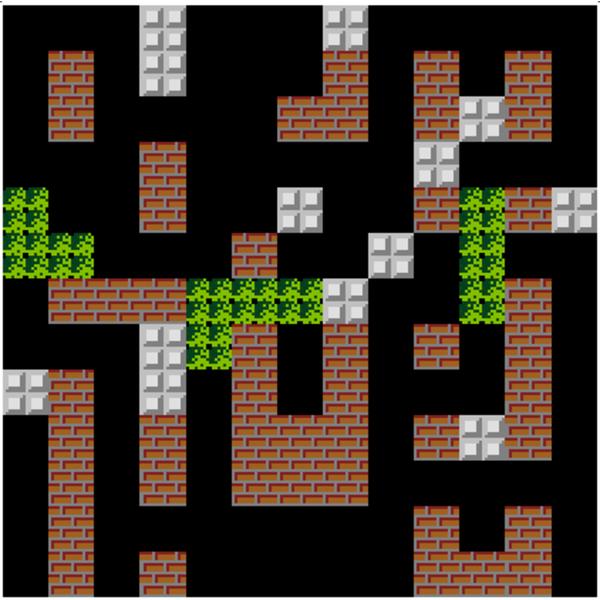
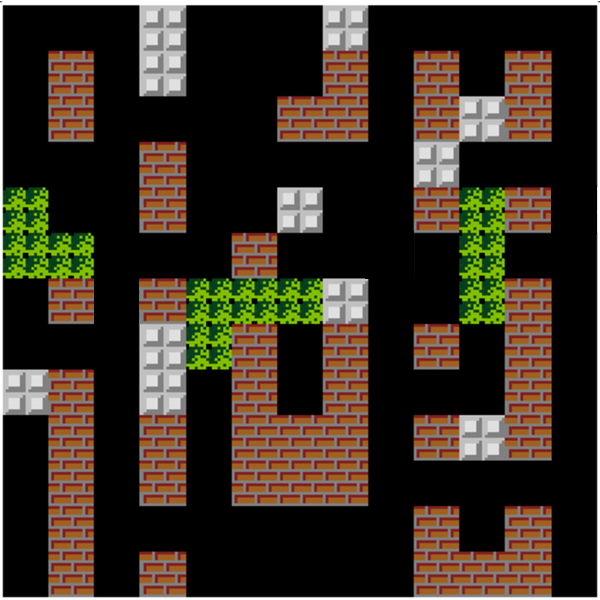
walls pb solved

Changed region(s): [[0.9, 0.3, 1.0, 0.39], [0.6, 0.36, 0.69, 0.48], [0.15, 0.45, 0.24, 0.54]]

diff --git a/tankytank.py b/tankytank.py
@@ -27,29 +27,28 @@ dim_cube = 46
 
 # soit l'origine en haut à gauche de l'image --> rajouter le margin de l'image après
 walls = [[48,50,2],[139,5,2],[277,96,1],[322,5,3],[413,50,4],[459,95,1],[504,50,2],[139,141,2],[3,187,2],
-         [48,232,2],[277,187,1],[231,232,6],[367,232,1],[460,187,3],[505,187,1],[550,187,1],[94,278,1],
+         [48,232,2],[277,187,1],[231,232,6],[460,187,3],[505,187,1],
          [139,278,5],[184,278,2],[413,323,1],[504,278,4],[3,368,1],[48,368,5],[413,413,1],[458,413,1],
          [139,551,1],[413,506,2],[504,506,2],[458,551,1]]
 big_wall = [277,2,278,5]
 
-for wall in walls:
-    print(wall[0], (wall[0] + dim_cube + 2))
-    print(wall[1], (wall[1]) + (wall[2] * dim_cube + 2))
-    
-    somewall = pygame.draw.rect(background, BLUE, (wall[0], wall[1], dim_cube+1, (dim_cube * wall[2])))
-    print(wall[0],wall[0]+dim_cube+1,wall[1],wall[1]+(dim_cube * wall[2]))
+
+# let's see those walls
+# for wall in walls:    
+#     somewall = pygame.draw.rect(background, BLUE, (wall[0], wall[1], dim_cube+1, (dim_cube * wall[2])))
+#     bigwall = pygame.draw.rect(background, RED, (big_wall[0], big_wall[2], (dim_cube * big_wall[1]), (dim_cube * big_wall[3])))
 
 win.fill(BLACK)
 pygame.display.flip()
 
 vel = 1
 run = True
-dim_tank = 40 
+dim_tank = 30
 
 # Player 1
 j1_img = pygame.image.load('j1_tank.png').convert_alpha()
-j1_x = 95
-j1_y = 130
+j1_x = 291
+j1_y = 568
 dir = "right"
 
 # Player 2
@@ -108,8 +107,6 @@ def player(x, y, dir):
             win.blit(pygame.transform.rotate(j1_img, 90), (j1_x, j1_y))
         elif dir =="right":
             win.blit(pygame.transform.rotate(j1_img, 0), (j1_x, j1_y))
-        else:
-            win.blit(j1_img, (x-1,y-1))
 
 def show_score(x, y, score_value):
     score = font.render("Score : " + str(score_value), True, (255, 255, 255))
@@ -135,29 +132,25 @@ def isCollision(enemyX, enemyY, bullet_j1_x, bullet_j1_y):
         return False
 
 def isWall(x, y):
-    # 2 pixels d'incertitude
-    # enlève dimension du tank
-    # for wall in walls:
-    #     res = False
+    for wall in walls:
+        res = False
+        if (wall[0] <= x <= (wall[0] + dim_cube)) and (wall[1] <= y <= (wall[1] + (wall[2] * dim_cube ))):
+            res = True
+            print("wall here")
+            print(wall[0], wall[1])
+            break 
+        elif (big_wall[0]<= x <= (big_wall[0] + (big_wall[1] * dim_cube))) and (big_wall[2]<= y <= (big_wall[2] + (big_wall[3] * dim_cube))):
+            res = True
+            break
+        else:
+            continue
+    return res
 
-    #     if ( wall[0] <= x <= (wall[0]) + dim_cube + 1) and (wall[1] <= y <= (wall[1] + (wall[2] * dim_cube ))):
-    #         res = True
-    #         print(wall[0], wall[0]+dim_cube+1, x, wall[1], y , wall[1]+(dim_cube * wall[2]))
-    #         break 
-    #     elif ((big_wall[0]) - 2)<= x <= ((big_wall[0]) + ((big_wall[1]) * dim_cube + 2)) and ((big_wall[1]) - 2)<= y <= (big_wall[2] + (big_wall[3] * dim_cube + 2)):
-    #         res = True
-    #         break
-    #     else:
-    #         continue
-    # return res
-    return True
-    
-
- 
 # infinite loop
 while run:
     pygame.time.delay(10)
-    print(dir)
+    print(j1_x,j1_y)
+
     for event in pygame.event.get():
         if (event.type == pygame.QUIT):
             run = False
@@ -166,77 +159,64 @@ while run:
     keys = pygame.key.get_pressed()
       
     # if left arrow key is pressed
-    if keys[pygame.K_LEFT] and j1_x>margin_x:
-        if keys[pygame.K_UP] and j1_y>margin_y:
-            continue
-        elif keys[pygame.K_DOWN] and j1_y<600-dim_tank:
-            continue
-        elif isWall(j1_x, j1_y):
-            j1_x+=vel
-            dir = "left"
+    if keys[pygame.K_LEFT] and j1_x>0:
+        j1_x_new = j1_x - vel
+        if isWall(j1_x_new, j1_y):
             continue
         else:
-          # decrement in x co-ordinate
-            j1_x -= vel
+            # decrement in x co-ordinate
+            j1_x = j1_x_new
             dir = "left"
+            player(j1_x,j1_y,dir)
+            
 
     # if left arrow key is pressed
     if keys[pygame.K_RIGHT] and j1_x<600-dim_tank:
-        if keys[pygame.K_UP] and j1_y>margin_y:
-            continue
-        elif keys[pygame.K_DOWN] and j1_y<600-dim_tank:
-            continue
-        elif isWall(j1_x, j1_y):
-            j1_x-=vel
-            dir="right"
+        j1_x_new = j1_x + vel
+        x = j1_x_new + dim_tank
+        if isWall(x, j1_y):
             continue
         else:
             # increment in x co-ordinate
-            j1_x += vel
+            j1_x = j1_x_new
             dir = "right"
+            player(j1_x,j1_y,dir)
          
     # if left arrow key is pressed   
-    if keys[pygame.K_UP] and j1_y>margin_y:
-        if keys[pygame.K_RIGHT] and j1_x<600-dim_tank:
-            continue
-        elif keys[pygame.K_LEFT] and j1_x>margin_x:
-            continue
-        elif isWall(j1_x, j1_y):
-            # step back
-            j1_y+=vel
-            dir="up"
+    if keys[pygame.K_UP] and j1_y>0:
+        j1_y_new = j1_y - vel
+        if isWall(j1_x, j1_y_new):
             continue
         else:
             # decrement in y co-ordinate
-            j1_y -= vel
+            j1_y = j1_y_new
             dir = "up"
+            player(j1_x, j1_y, dir)
             
     # if left arrow key is pressed   
     if keys[pygame.K_DOWN] and j1_y<600-dim_tank:
-        if keys[pygame.K_RIGHT] and j1_x<600-dim_tank:
-            continue
-        elif keys[pygame.K_LEFT] and j1_x>margin_x:
-            continue
-        elif isWall(j1_x, j1_y):
-            j1_y-=vel
-            dir="down"
+        j1_y_new = j1_y + vel
+        y = j1_y_new + dim_tank
+        if isWall(j1_x, y):
             continue
         else:
             # increment in y co-ordinate
-            j1_y += vel
+            j1_y = j1_y_new
             dir = "down"
-
-    if keys[pygame.K_SPACE]:
-        ##shoot that bullet
-        if bullet_j1_state == "ready":
-           bulletSound = mixer.Sound("one_shot_sound.wav")
-           bulletSound.play()
-           fire_bullet(bullet_j1_x, bullet_j1_y)
-           print("fire!")
+            player(j1_x, j1_y, dir)
+       
+    # if keys[pygame.K_SPACE]:
+    #     ##shoot that bullet
+    #     if bullet_j1_state == "ready":
+    #        bulletSound = mixer.Sound("one_shot_sound.wav")
+    #        bulletSound.play()
+    #        fire_bullet(bullet_j1_x, bullet_j1_y)
+    #        print("fire!")
        
     win.fill((0, 0, 0))
+    
     win.blit(background, (margin_x, margin_y))
-
+    player(j1_x, j1_y, dir)
     # Collision
     # j2_hasbeen_shot = isCollision(j2_x, j2_y, bullet_j1_x, bullet_j1_y)
     # if j2_hasbeen_shot:
@@ -269,8 +249,6 @@ while run:
         bullet_j1_y = bullet_dir_y(dir)
         bullet_j1_state = "ready"
       
-
-    player(j1_x,j1_y,dir)
     show_score(textX, testY,score_value_j1)
     # show_score(textX, testY,score_value_j2)
     pygame.display.update() 

diff --git a/test.py b/test.py
@@ -69,7 +69,6 @@ def isWall(x, y):
         print("in wall")
         print(j1_x,j1_y)
         return True
-        
     else:
         return False
     
@@ -78,7 +77,7 @@ def isWall(x, y):
 # infinite loop
 while run:
     pygame.time.delay(10)
-    
+
     for event in pygame.event.get():
         if (event.type == pygame.QUIT):
             run = False
